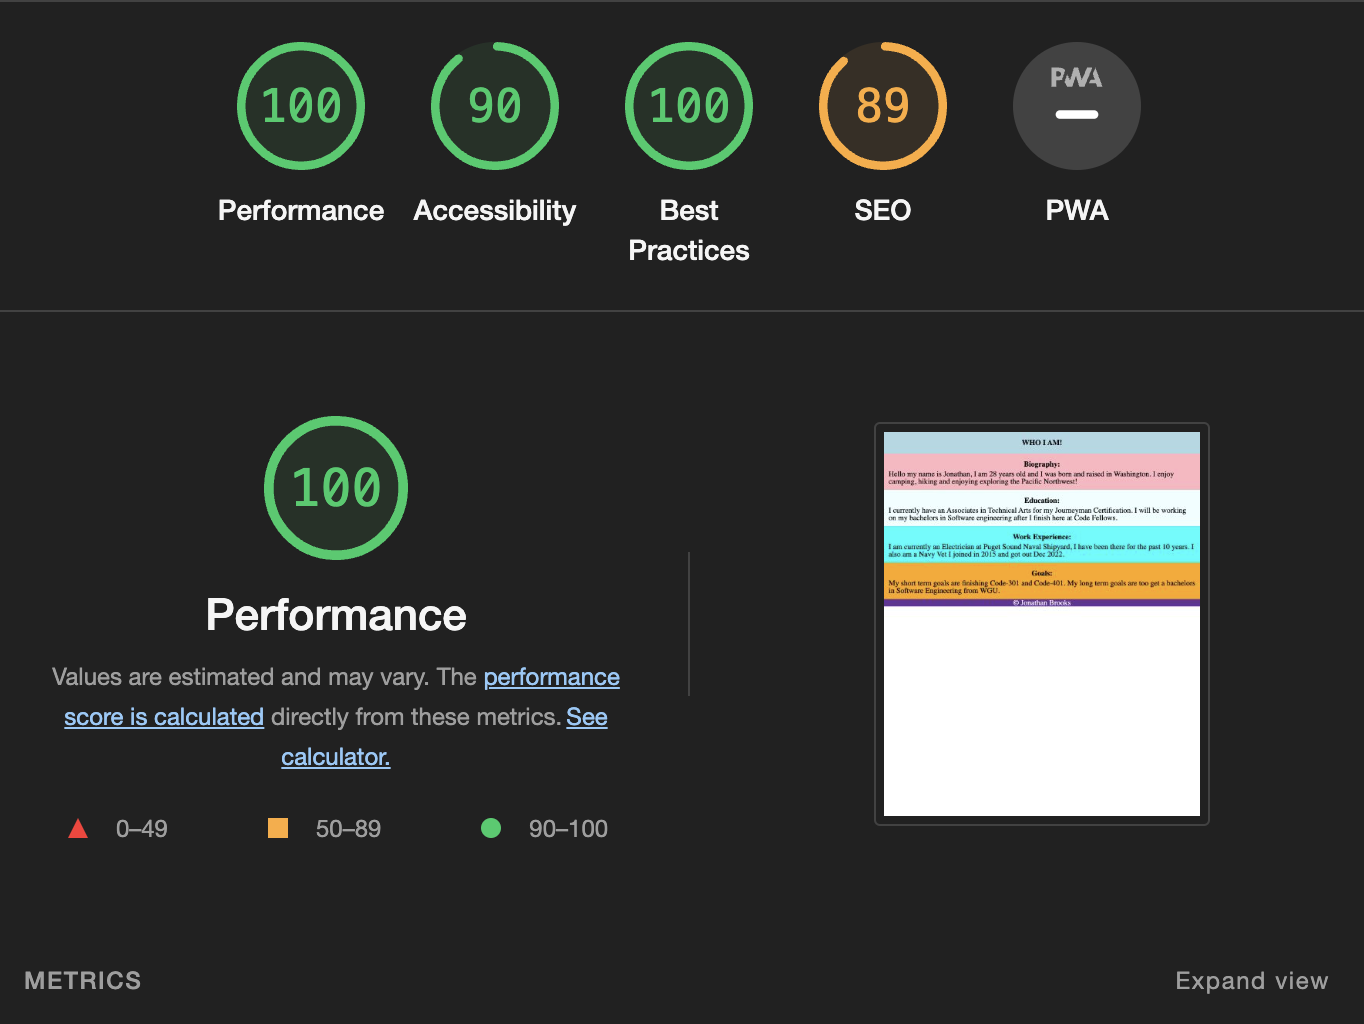
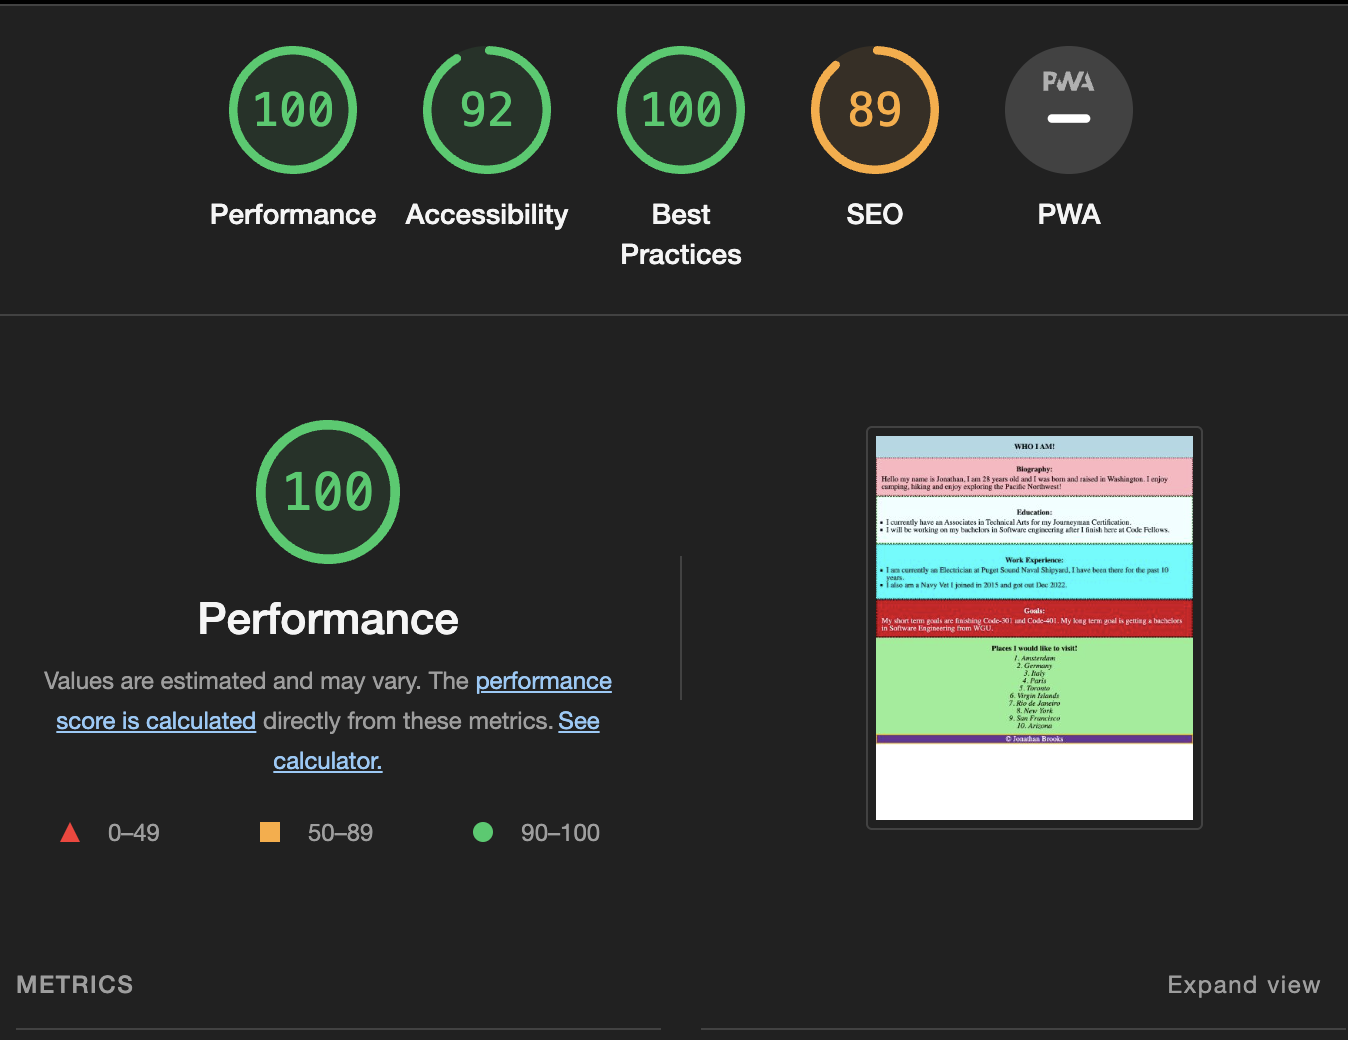
changed features on website added prompts and functionality

diff --git a/js/app.js b/js/app.js
@@ -1,5 +1,7 @@
 'use strict';
 
+let score = 0;
+
 let ask0 = prompt('What is your name?');
 alert('Hello ' + ask0 + ' welcome to my ABOUT ME PAGE');
 
@@ -16,6 +18,7 @@ let result2 = ask2.toLowerCase();
 
 if (result2 === 'no' || result2 === 'n') {
     alert('Your right I do live in washington though');
+    score++;
 } else if (result2 === 'yes' || result2 === 'y'){
     alert ('actually I don\'t live in Seattle');
 }
@@ -25,6 +28,7 @@ let result3 = ask3.toLowerCase();
 
 if (result3 === 'yes' || result3 === 'y'){
     alert('Yeah your right, I enjoy hiking and camping!');
+    score++;
 } else if (result3 === 'no' || result3 === 'n'){
     alert('Actually I do enjoy the outdoors, I hope you do as well!');
 }
@@ -34,8 +38,58 @@ let result4 = ask4.toLowerCase();
 
 if (result4 === 'yes' || result4 === 'y'){
     alert('Way to go!! your right I am 28 years old');
+    score++;
 } else if (result4 === 'no' || result4 === 'n'){
     alert('You are incorrect I am 28 years old.');
+}
+
+let attempt = 3;
+let ask6 = prompt('Guess a number between 1-20');
+let answer = 12;
+ask6 = Number(ask6);
+while (attempt){
+    if (ask6 > answer){
+        ask6 = prompt('Your answer is too high try again');
+        ask6 = Number(ask6);
+    }else if (ask6 < answer){
+        ask6 = prompt('Your answer is to low try again');
+        ask6 = Number(ask6);
+    }else if (ask6 === answer){
+        alert('Congrat\'s you got it!!');
+        score++;
+        break;
+    }
+    attempt--;
+    if (!attempt){
+        alert('You didn\'t guess it within 4 attempts');
+    }
+}
+
+let ask7 = prompt('Guess where I\'m traveling next');
+let travel = ['Las Vegas', 'St.Louis', 'New York'];
+let attempt1 = 6;
+let guess = false;
+
+while (attempt1 > 0) {
+    for (let i=0; i < travel.length; i++){
+        let places = travel[i];
+        if (ask7.toLowerCase() === places.toLowerCase()){
+            alert('You got it right I will be going this year!');
+            score++;
+            console.log(score);
+            guess = true;
+            break;
+        }
+    }
+    if (guess) break;
+
+    attempt1 = attempt1-1;
+    if (!attempt1) {
+        alert('You did not guess correctly');
+    }
+    else {
+        ask7 = prompt('That place is on the list but it\'s not where I\'m going');
+    }
 }
 
 let ask5 = prompt('Would you like to see the rest of my website?? (yes/no)');
@@ -47,4 +101,4 @@ if (result5 === 'yes' || result5 === 'y'){
     alert('Well I hope you like my website anyways!');
 }
 
-alert('Thanks for playing ' + ask0 + '!!!');
+alert('Thanks for playing ' + ask0 + ' You got ' + score + ' answers right!!' );

diff --git a/index.html b/index.html
@@ -21,19 +21,44 @@
         </section>
         <section class="two">
             <h2 class="topic2">Education:</h2>
-        <p>I currently have an Associates in Technical Arts for my Journeyman Certification.
-            I will be working on my bachelors in Software engineering after I finish here at Code Fellows. 
+        <p>
+            <ul>
+                <li class="list1">I currently have an Associates in Technical Arts for my Journeyman Certification.</li>
+                <li class="list1">I will be working on my bachelors in Software engineering after I finish here at Code Fellows.</li>
+            </ul>
         </p>
         </section>
         <section class="three">
             <h2 class="topic3">Work Experience:</h2>
-            <p> I am currently an Electrician at Puget Sound Naval Shipyard, I have been there for the past 10 years. I also am a Navy Vet I joined in 2015 and got out Dec 2022. </p>
+            <p> 
+                <ul>
+                    <li class="list1">I am currently an Electrician at Puget Sound Naval Shipyard, I have been there for the past 10 years.</li> 
+                    <li class="list1">I also am a Navy Vet I joined in 2015 and got out Dec 2022.</li>
+                </ul>
+            </p>    
         </section>
         <section class="four">
             <h2 class="topic4">Goals:</h2>
             <p>
                 My short term goals are finishing Code-301 and Code-401. 
                 My long term goal is getting a bachelors in Software Engineering from WGU. 
+            </p>
+        </section>
+        <section class="five">
+            <p>
+                <h3 class="topic5">Places I would like to visit!</h3>
+                <ol>
+                    <li>Amsterdam</li>
+                    <li>Germany</li>
+                    <li>Italy</li>
+                    <li>Paris</li>
+                    <li>Toronto</li>
+                    <li>Virgin Islands</li>
+                    <li>Rio de Janeiro</li>
+                    <li>New York</li>
+                    <li>San Francisco</li>
+                    <li>Arizona</li>
+                </ol>               
             </p>
         </section>
         </main>

diff --git a/css/style.css b/css/style.css
@@ -12,6 +12,11 @@ header {
     border-color: ;
     padding: 10px;
 }
+
+.list1 {
+list-style-type: square;
+}
+
 .topic1{
     text-align: center;
     font-weight: bold;
@@ -30,7 +35,8 @@ header {
     border-width: 2px;
     border-color: green;
     background-color: azure;
-    padding: 10px;
+    padding: 20px;
+    
 }
 
 .topic3 {
@@ -44,7 +50,7 @@ header {
     border-color: black;
     border-width: 2px;
     background-color: cyan;
-    padding: 10px;
+    padding: 20px;
 }
 
 .topic4{    
@@ -62,6 +68,25 @@ header {
     color: aliceblue;
     padding: 10px;
 }
+
+.five{
+    background-color: lightgreen;
+    text-align: center;
+    padding: 10px;
+    font-style: italic;
+}
+.topic5{
+    text-align: center;
+    font-weight: bold;
+    padding: 5px;
+    font-style: normal;
+}
+ol li{
+    text-align: center;
+    list-style-position: inside;
+    display: list-item;
+}
+
 
 footer {
     border-style: solid;

diff --git a/css/reset.css b/css/reset.css
@@ -31,9 +31,9 @@ footer, header, hgroup, menu, nav, section {
 body {
 	line-height: 1;
 }
-ol, ul {
+/* ol, ul {
 	list-style: none;
-}
+} */
 blockquote, q {
 	quotes: none;
 }

diff --git a/README.md b/README.md
@@ -2,8 +2,7 @@
 
 ## About Me Quiz
 
-This website displays prompts that ask the user yes and no questions about me the author.
-
+This website displays prompts that ask the user yes and no questions about me the author. In addition the prompts include a guessing game and give your score at the end displaying how many questions you have gotten correct.
 
 Author: Jonathan Brooks
 
